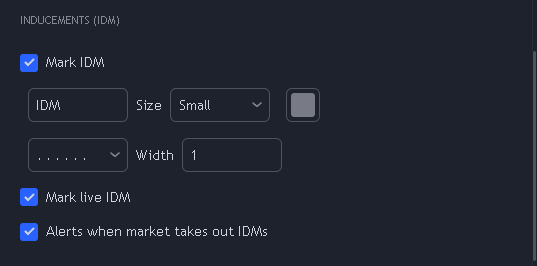
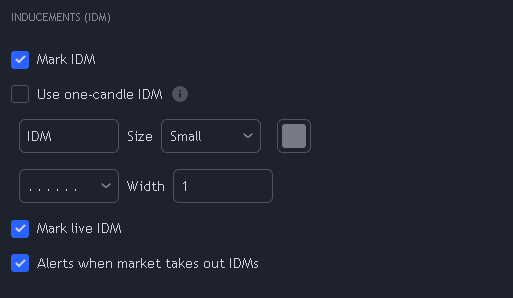
Added single candle IDM

diff --git a/configuration.md b/configuration.md
@@ -83,10 +83,13 @@ Triggering alerts requires an additional step that will be explained in the aler
 ===
 ### Inducements
 ==- Click to expand 
-![](/assets/img/docs-optistruct-3-configuration-1-inputs-3-inducem-mh.png)
+![](/assets/img/docs-optistruct-3-configuration-1-inputs-3-inducem-mh-update.png)
 
 Mark IDM
 :   Mark inducements on the chart
+
+Use one-candle IDM
+:   Validate IDMs created by a single candle
 
 Row 1
 :   In order from left to right
